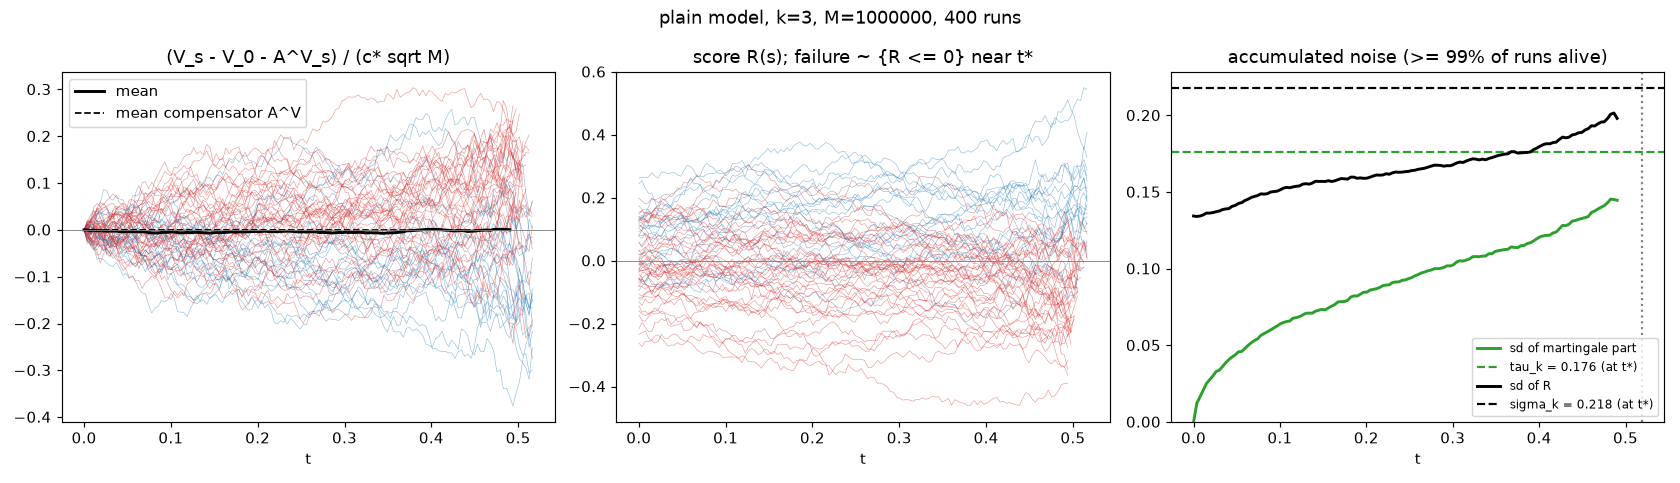
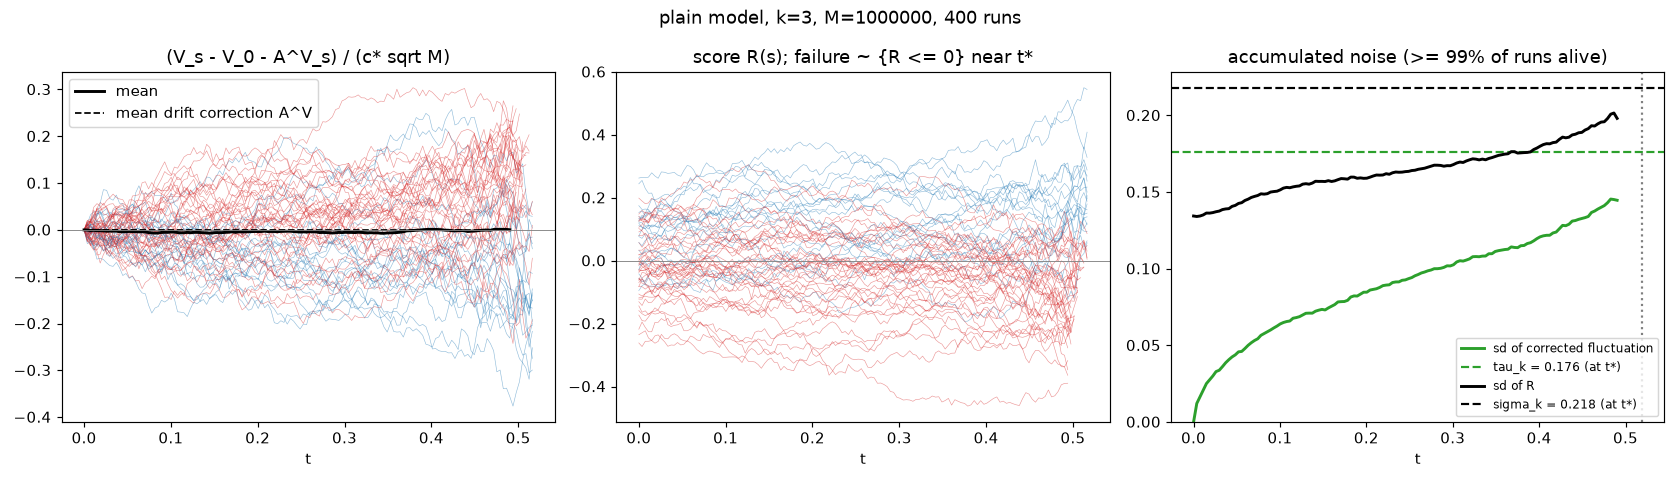
Regenerate reference figures, add live demo link, fix citation metadata
Reference figures now carry the drift-correction labels used in the scripts
(numbers unchanged). README links the GitHub Pages lab; CITATION.cff
separates the software from the working paper via preferred-citation;
.nojekyll serves the site as-is.

Changed region(s): [[0.8667, 0.7143, 0.9905, 0.8696], [0.0929, 0.2174, 0.1857, 0.2484]]

diff --git a/README.md b/README.md
@@ -8,10 +8,10 @@ runs peeling on random k-uniform hypergraphs in the browser, so you can
 watch how a run near the threshold succeeds or gets stuck, and compare it with
 the closed-form limits.
 
-**Version 0.1** · [Paper (PDF)](paper/main.pdf) · [LaTeX source](paper/main.tex)
+**Version 0.1** · [**Try the lab online**](https://whitewum.github.io/peeling-lens/) · [Paper (PDF)](paper/main.pdf) · [LaTeX source](paper/main.tex)
 
-Open `index.html` in a browser. It needs no build step and no server, so it
-can also be served directly with GitHub Pages.
+The lab runs at <https://whitewum.github.io/peeling-lens/>. It is a single
+file with no build step, so you can also open `index.html` locally.
 
 ## What the lab shows
 
@@ -84,8 +84,7 @@ entire calibration study.
 The simulator accumulates a first-order uniform-partner drift approximation.
 It is not the exact finite-graph Doob compensator, particularly under Plain
 mapping constraints. The corrected process illustrates the martingale
-approximation used in the asymptotic analysis. Reference image labels mentioning
-a Doob martingale should be read with this qualification.
+approximation used in the asymptotic analysis.
 
 Panel D stops once fewer than 99% of runs remain active. This limits, but does
 not eliminate, survivor selection; it is not an unbiased estimator of the
